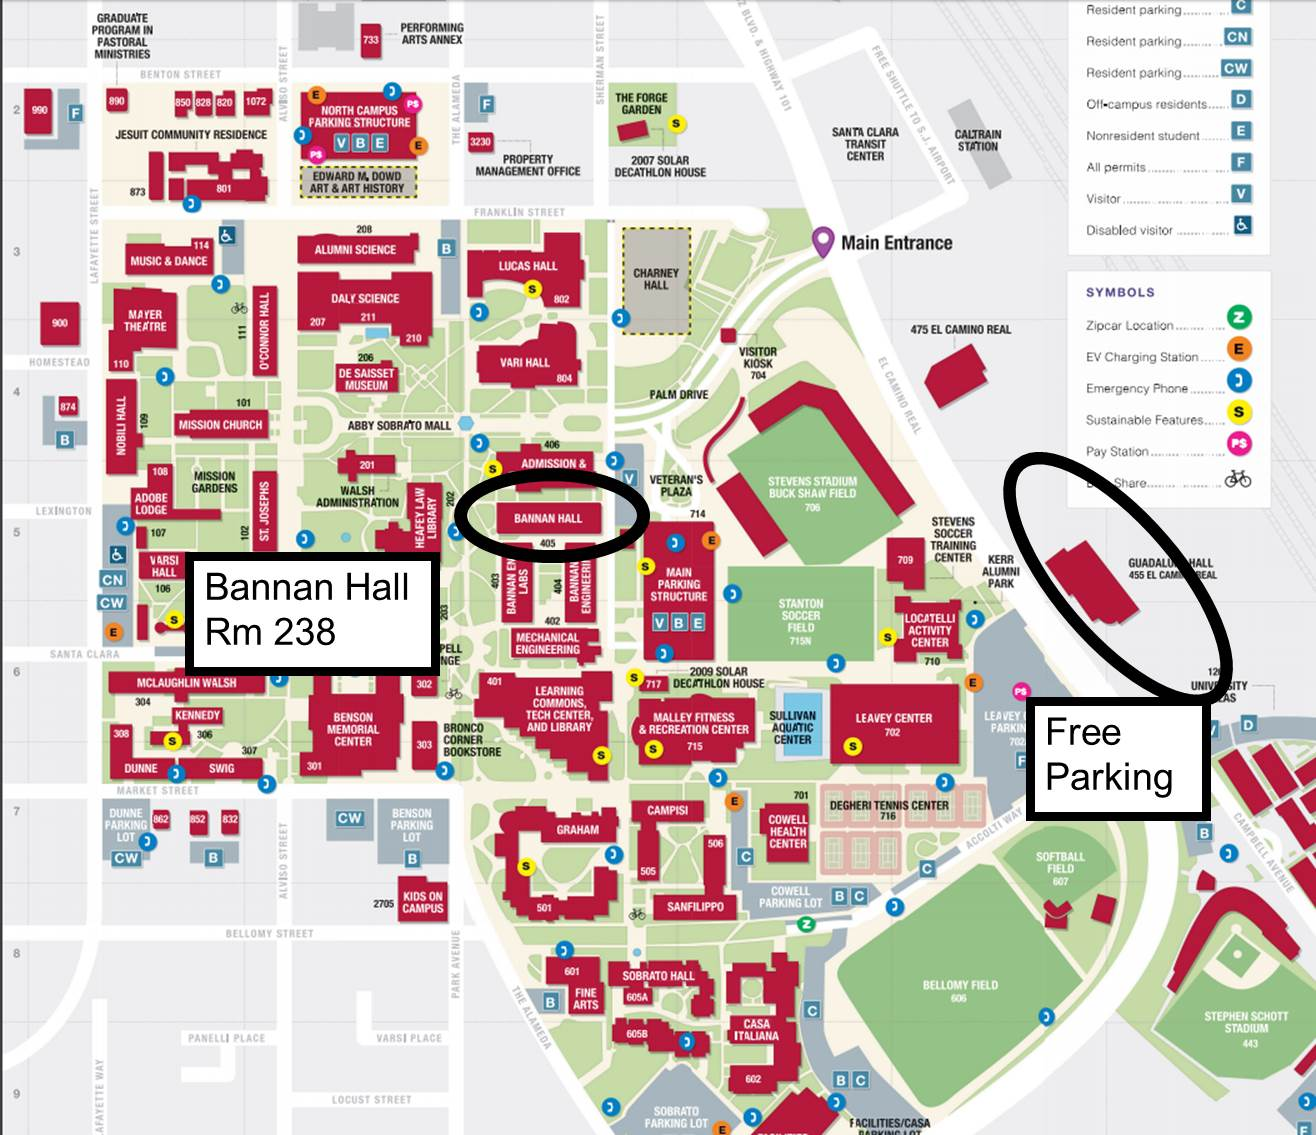
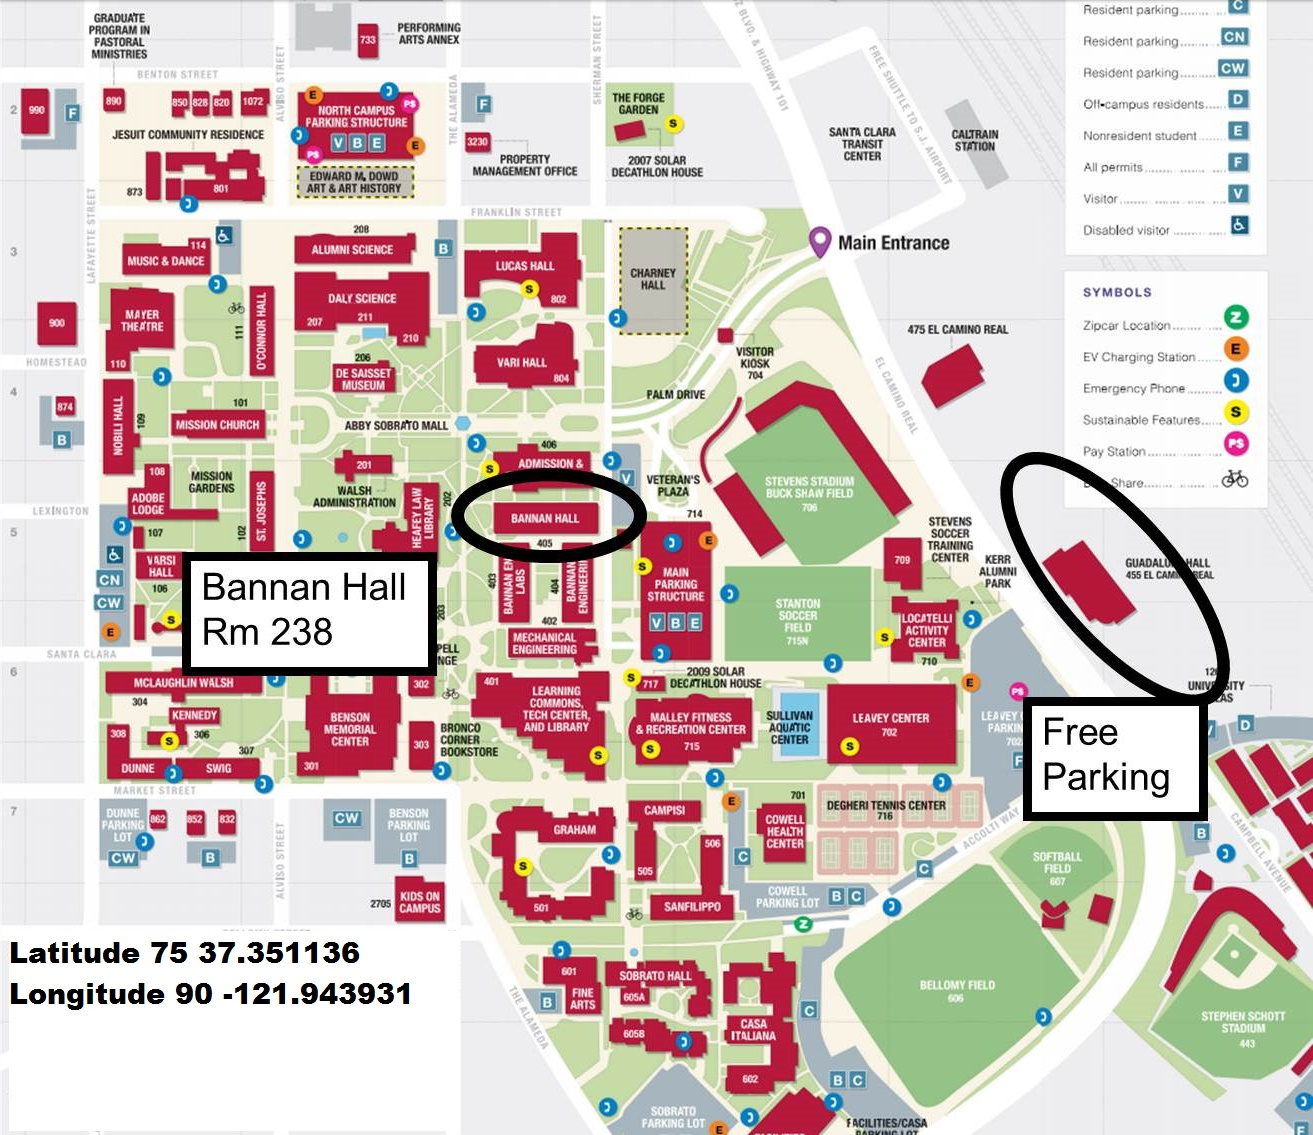
Added parsing of OCR recognized text to create reference lines on the map image itself. Also setup map to scale and center correctly on the screen.

diff --git a/Waypoint/Waypoint/MapViewer.xaml b/Waypoint/Waypoint/MapViewer.xaml
@@ -1,7 +1,7 @@
 <?xml version="1.0" encoding="utf-8" ?>
 <ContentPage xmlns="http://xamarin.com/schemas/2014/forms"
              xmlns:x="http://schemas.microsoft.com/winfx/2009/xaml"
-             x:Class="Waypoint.MapViewer"
-             x:Name="page">
-    <Image Source="{Binding Map}" HorizontalOptions="Center" VerticalOptions="Center" />
+             xmlns:skia="clr-namespace:SkiaSharp.Views.Forms;assembly=SkiaSharp.Views.Forms"
+             x:Class="Waypoint.MapViewer">
+    <skia:SKCanvasView x:Name="canvasView" PaintSurface="paint" />
 </ContentPage>

diff --git a/Waypoint/Waypoint/MapViewerViewModel.cs b/Waypoint/Waypoint/MapViewerViewModel.cs
@@ -2,13 +2,16 @@
 using Microsoft.ProjectOxford.Vision.Contract;
 using System;
 using System.Collections.Generic;
+using System.Collections.ObjectModel;
 using System.ComponentModel;
 using System.Diagnostics;
 using System.IO;
 using System.Linq;
+using System.Reflection;
 using System.Text;
 using System.Threading.Tasks;
 using Xamarin.Forms;
+using static Waypoint.ReferenceRatio;
 
 namespace Waypoint
 {
@@ -20,14 +23,10 @@ namespace Waypoint
 
         public event PropertyChangedEventHandler PropertyChanged;
 
-        private ImageSource map;
-        public ImageSource Map
+        private Stream map;
+        public Stream Map
         {
-            get
-            {
-                return map;
-            }
-
+            get { return map; }
             private set
             {
                 if (map == value) return;
@@ -37,7 +36,23 @@ namespace Waypoint
             }
         }
 
-        public MapViewerViewModel(Stream mapStream)
+        private Size mapSize;
+        public Size MapSize
+        {
+            get { return mapSize; }
+            private set
+            {
+                if (mapSize == value) return;
+
+                mapSize = value;
+                onPropertyChanged("MapSize");
+            }
+        }
+
+        private ObservableCollection<ReferenceRatio> references = new ObservableCollection<ReferenceRatio>();
+        public ObservableCollection<ReferenceRatio> References { get { return references; } }
+
+        public MapViewerViewModel(Stream mapStream, Size mapSize)
         {
             // Convert Stream to byte[] so data is not lost when the original Stream is closed
             byte[] bytes;
@@ -47,12 +62,16 @@ namespace Waypoint
                 bytes = memStream.ToArray();
             }
 
-            // Convert byte[] to MemoryStream to instantiate an ImageSource
-            Map = ImageSource.FromStream(() => new MemoryStream(bytes));
+            // Convert byte[] to MemoryStream
+            Map = new MemoryStream(bytes);
+            MapSize = mapSize;
+
+            // Bind observable collection changes to notify listening views
+            References.CollectionChanged += (sender, evt) => onPropertyChanged("References");
 
             // Analyze image to recognize text
             VisionServiceClient client = new VisionServiceClient(VISION_API_KEY, VISION_API_ENDPOINT);
-            client.RecognizeTextAsync(new MemoryStream(bytes), LANGUAGE).ContinueWith(async task =>
+            client.RecognizeTextAsync(new MemoryStream(bytes), LANGUAGE, false /* detectRotation */).ContinueWith(async task =>
             {
                 OcrResults results = null;
                 try
@@ -69,22 +88,55 @@ namespace Waypoint
                 Debug.WriteLine($"Got {results.Regions?.Count()} results");
                 foreach (var region in results.Regions)
                 {
-                    // Concatenate each region of lines into a single string
-                    string text = region.Lines.ToList()
-                        .SelectMany(line => line.Words)
-                        .Select(word => word.Text)
-                        .Aggregate((word1, word2) => word1 + " " + word2)
-                    ;
+                    // Flatten lines of words into a list of words
+                    List<Word> words = region.Lines.ToList().SelectMany(line => line.Words).ToList();
+                    Debug.WriteLine($"Words: {words.Select(word => word.Text).Aggregate((word1, word2) => word1 + " " + word2)}");
 
-                    Debug.WriteLine($"Text: {text}");
-                    Debug.WriteLine($"Location: {region.Rectangle.Left}x{region.Rectangle.Top}");
+                    // Look for latitude or longitude reference text
+                    for (int i = 0; i < words.Count; ++i)
+                    {
+                        if (words[i].Text.ToLower() == "latitude" || words[i].Text.ToLower() == "longitude")
+                        {
+                            // Parse axis
+                            PolarAxis axis = words[i].Text.ToLower() == "latitude" ? PolarAxis.Latitude : PolarAxis.Longitude;
+                            
+                            // Parse pixel value
+                            int pixel;
+                            try
+                            {
+                                pixel = int.Parse(words[i + 1].Text);
+                            }
+                            catch
+                            {
+                                Debug.WriteLine($"Failed to parse pixel value: {words[i + 1].Text}");
+                                continue;
+                            }
+
+                            // Parse polar value
+                            float polar;
+                            try
+                            {
+                                polar = float.Parse(words[i + 2].Text);
+                            }
+                            catch
+                            {
+                                Debug.WriteLine($"Failed to parse polar value: {words[i + 2].Text}");
+                                continue;
+                            }
+
+                            // Create reference ratio from detected values
+                            var reference = new ReferenceRatio(pixel, polar, axis);
+                            Debug.WriteLine($"Created reference: {reference}");
+                            References.Add(reference);
+                        }
+                    }
                 }
             });
         }
 
         private void onPropertyChanged(string propertyName)
         {
-            PropertyChanged?.Invoke(this, new PropertyChangedEventArgs(propertyName));
+            Device.BeginInvokeOnMainThread(() => PropertyChanged?.Invoke(this, new PropertyChangedEventArgs(propertyName)));
         }
     }
 }

diff --git a/Waypoint/Waypoint/MapViewer.xaml.cs b/Waypoint/Waypoint/MapViewer.xaml.cs
@@ -1,5 +1,6 @@
 using System;
 using System.Collections.Generic;
+using System.Diagnostics;
 using System.IO;
 using System.Linq;
 using System.Text;
@@ -7,18 +8,102 @@ using System.Threading.Tasks;
 
 using Xamarin.Forms;
 using Xamarin.Forms.Xaml;
+using SkiaSharp.Views.Forms;
+using SkiaSharp;
 
 namespace Waypoint
 {
     [XamlCompilation(XamlCompilationOptions.Compile)]
     public partial class MapViewer : ContentPage
     {
-        public MapViewer(Stream map)
+        private readonly MapViewerViewModel viewModel;
+
+        public MapViewer(Stream map, Size mapSize)
         {
             InitializeComponent();
 
             // Use associated ViewModel for bindings
-            this.BindingContext = new MapViewerViewModel(map);
+            this.viewModel = new MapViewerViewModel(map, mapSize);
+            this.BindingContext = viewModel;
+
+            // When the list of references updates, redraw the screen
+            viewModel.PropertyChanged += (sender, evt) =>
+            {
+                if (evt.PropertyName == "References")
+                {
+                    canvasView.InvalidateSurface();
+                }
+            };
+        }
+
+        // Paint the canvas with the image and its reference lines
+        private void paint(object sender, SKPaintSurfaceEventArgs evt)
+        {
+            SKCanvas canvas = evt.Surface.Canvas;
+            Size canvasSize = new Size(evt.Info.Width, evt.Info.Height);
+            Size origSize = viewModel.MapSize;
+            
+            using (var paint = new SKPaint())
+            {
+                paint.Color = SKColors.Red;
+
+                // Reset image
+                canvas.Clear(SKColors.White);
+
+                // Get image scale based on the smaller fit of the two dimensions
+                double widthScale = canvasSize.Width / origSize.Width;
+                double heightScale = canvasSize.Height / origSize.Height;
+                double scale = widthScale < heightScale ? widthScale : heightScale;
+                Debug.WriteLine($"Scale: {scale}");
+
+                // Compute the size of the image to draw by scaling it to the appropriate size
+                Size scaledSize = origSize * scale;
+
+                // Compute the origin of the image by offsetting it to center within the view
+                Point origin = widthScale < heightScale
+                    ? new Point(0.0, Math.Abs(canvasSize.Height - scaledSize.Height) / 2.0) // Fit to smaller width
+                    : new Point(Math.Abs(canvasSize.Width - scaledSize.Width) / 2.0, 0.0) // Fit to smaller height
+                ;
+                Debug.WriteLine($"Origin: {origin}");
+
+                // Compute the rectangle the image will use to draw itself
+                var rect = SKRect.Create((float) origin.X, (float) origin.Y,
+                        (float) scaledSize.Width, (float) scaledSize.Height);
+                Debug.WriteLine($"Image rect: {rect}");
+
+                // Draw base map image
+                viewModel.Map.Position = 0; // Reset to beginning of stream
+                using (var skStream = new SKManagedStream(viewModel.Map))
+                using (var bitmap = SKBitmap.Decode(skStream))
+                {
+                    canvas.DrawBitmap(bitmap, rect);
+                }
+
+                // Draw each reference line for debugging
+                foreach (var reference in viewModel.References)
+                {
+                    drawReferenceLine(canvas, origin, scaledSize, reference.scale(scale), paint);
+                }
+            }
+        }
+
+        // Draw a reference line on the canvas for debugging purposes
+        private static void drawReferenceLine(SKCanvas canvas, Point origin, Size size, ReferenceRatio reference, SKPaint paint)
+        {
+            switch (reference.Axis)
+            {
+                case ReferenceRatio.PolarAxis.Latitude: // Draw horizontal latitude line
+                    float y = (float) (origin.Y + reference.Pixel);
+                    canvas.DrawLine((float) origin.X, y, (float) (origin.X + size.Width), y, paint);
+                    canvas.DrawText(reference.Polar.ToString(), (float) ((size.Width / 2.0f) + origin.X), y, paint);
+                    break;
+                case ReferenceRatio.PolarAxis.Longitude: // Draw vertical longitude line
+                    float x = (float) (origin.X + reference.Pixel);
+                    canvas.DrawLine(x, (float) origin.Y, x, (float) (origin.Y + size.Height), paint);
+                    canvas.DrawText(reference.Polar.ToString(), x, (float) ((size.Height / 2.0f) + origin.Y), paint);
+                    break;
+                default: throw new ArgumentException($"Unknown polar axis: {reference.Axis}. When did that get invented?!");
+            }
         }
     }
 }

diff --git a/Waypoint/Waypoint/ReferenceRatio.cs b/Waypoint/Waypoint/ReferenceRatio.cs
@@ -1,0 +1,48 @@
+using System;
+using System.Collections.Generic;
+using System.Linq;
+using System.Text;
+using System.Threading.Tasks;
+
+namespace Waypoint
+{
+    /// <summary>
+    /// Model class representing a ratio used as a reference for the map.
+    /// Correlates a pixel value as equivalent to a polar value for a given PolarAxis.
+    /// </summary>
+    class ReferenceRatio
+    {
+        private readonly int pixel;
+        public int Pixel { get { return pixel; } }
+
+        private readonly float polar;
+        public float Polar { get { return polar; } }
+
+        private readonly PolarAxis axis;
+        public PolarAxis Axis { get { return axis; } }
+
+        public ReferenceRatio(int pixel, float polar, PolarAxis axis)
+        {
+            this.pixel = pixel;
+            this.polar = polar;
+            this.axis = axis;
+        }
+
+        // Return a new ReferenceRatio scaling the Pixel value with the given ratio
+        public ReferenceRatio scale(double ratio)
+        {
+            return new ReferenceRatio((int) (pixel * ratio), polar, axis);
+        }
+
+        public override string ToString()
+        {
+            return $"ReferenceRatio {{ pixel = {pixel}, polar = {polar}, axis = {axis} }}";
+        }
+
+        public enum PolarAxis
+        {
+            Latitude,
+            Longitude
+        }
+    }
+}

diff --git a/Waypoint/Waypoint/MainPage.xaml.cs b/Waypoint/Waypoint/MainPage.xaml.cs
@@ -85,7 +85,7 @@ namespace Waypoint
             Assembly assembly = typeof(MainPage).GetTypeInfo().Assembly;
             using (Stream stream = assembly.GetManifestResourceStream("Waypoint.test_case_scu.jpg"))
             {
-                await Navigation.PushAsync(new MapViewer(stream));
+                await Navigation.PushAsync(new MapViewer(stream, new Size(1313, 1135) /* hard code size temporarily */));
             }
         }
 
